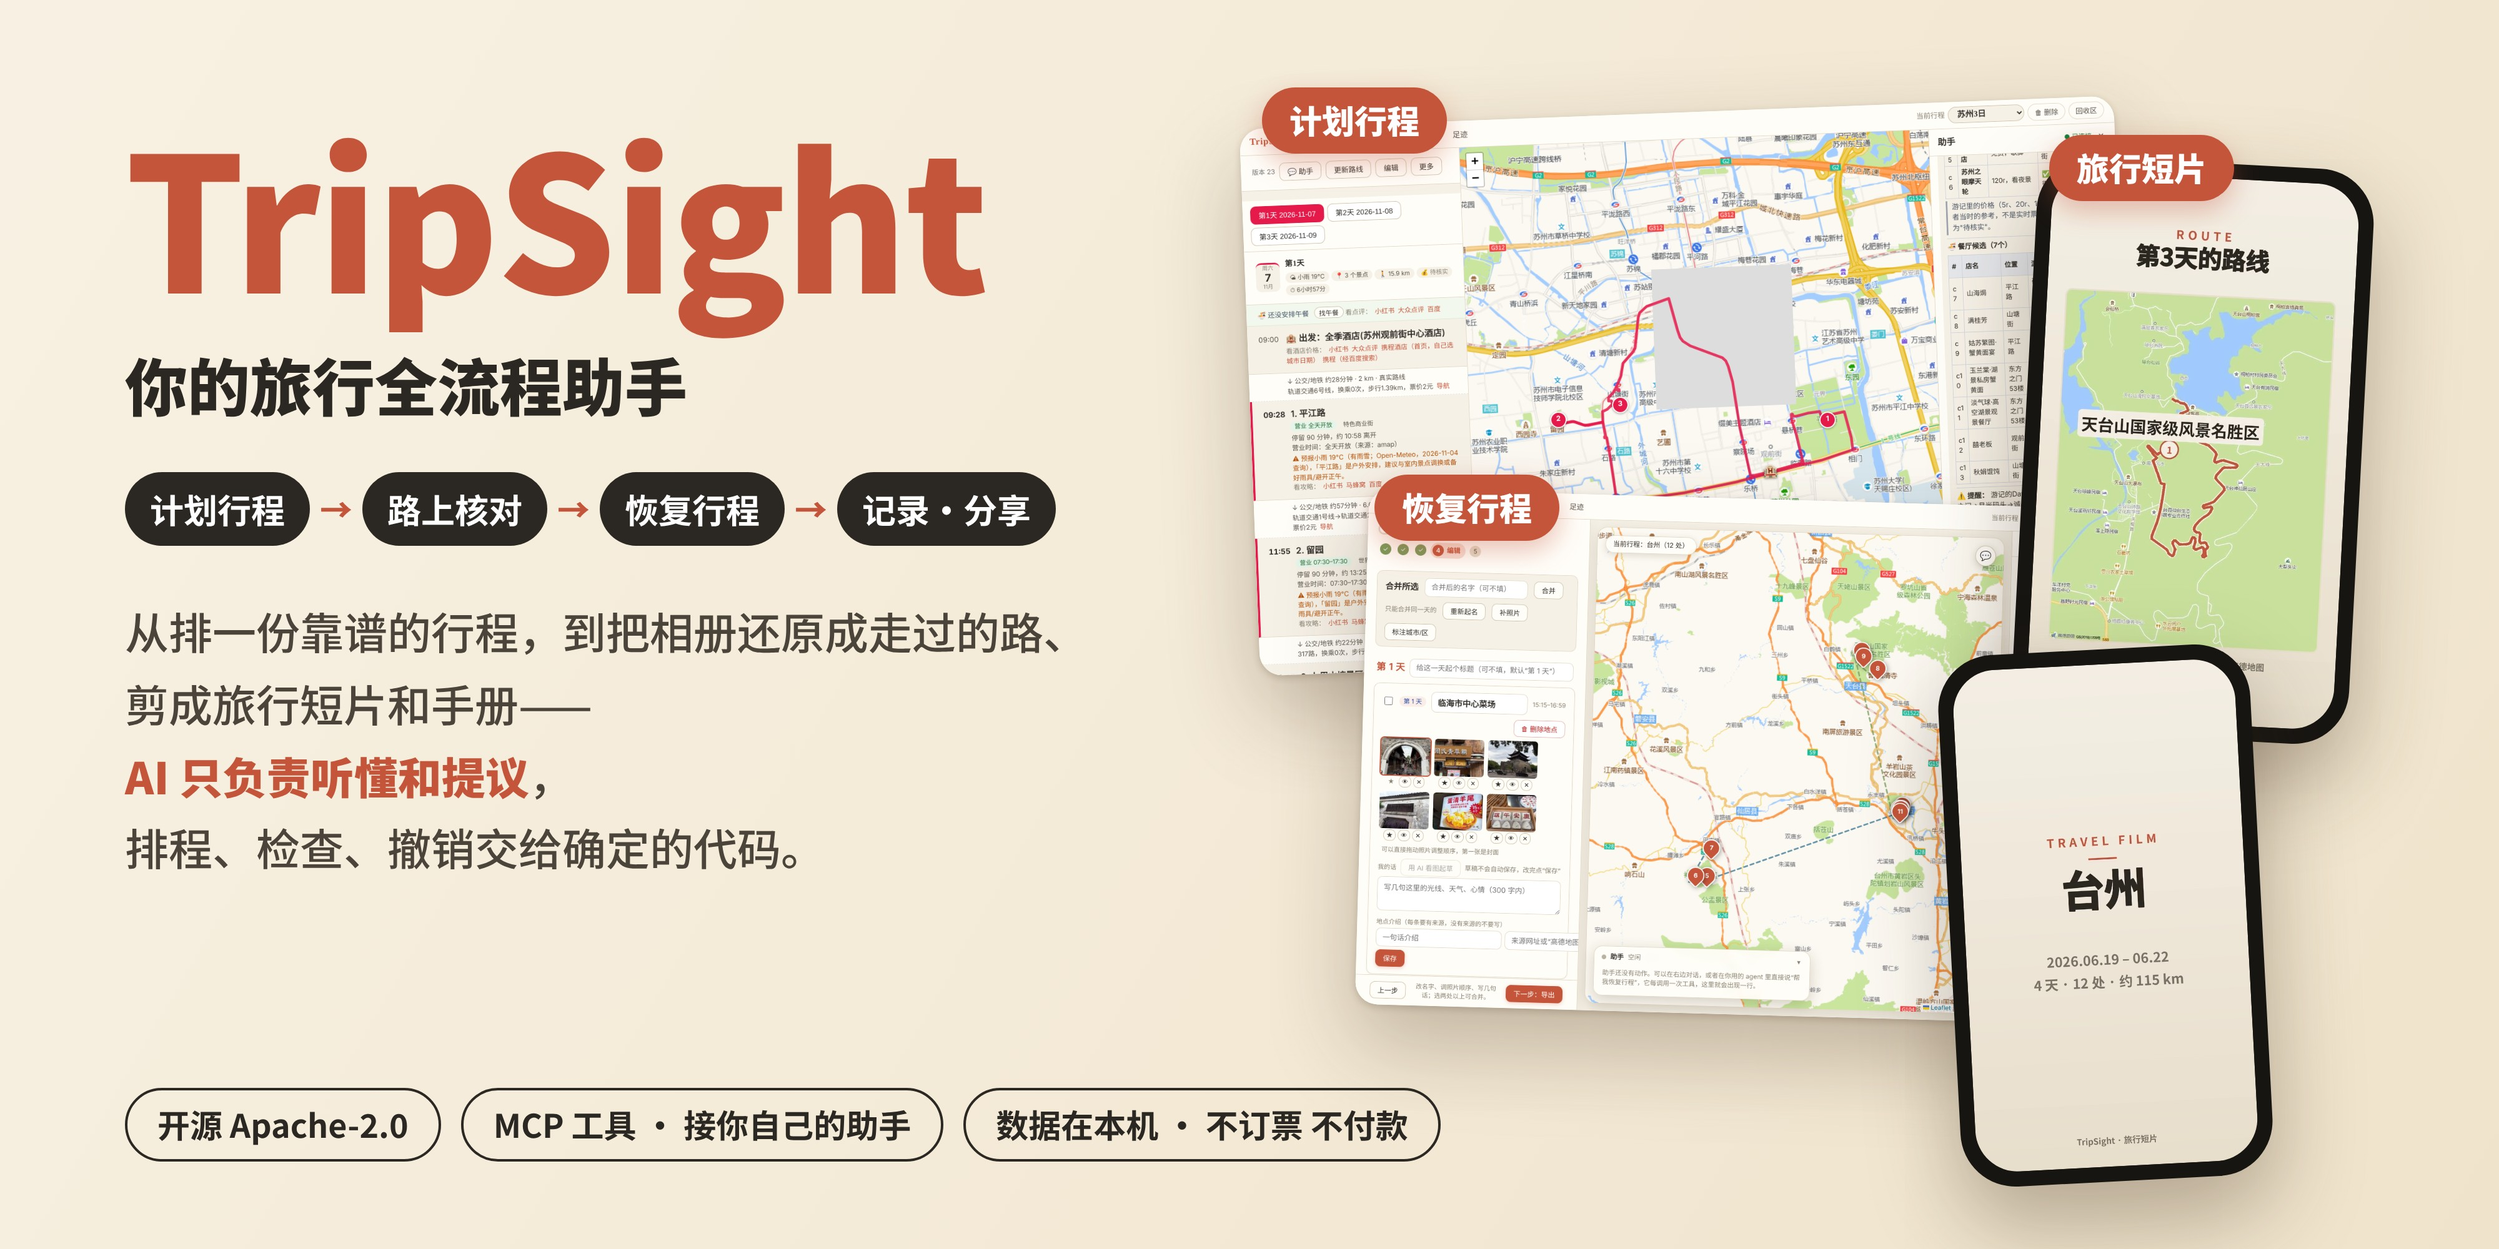
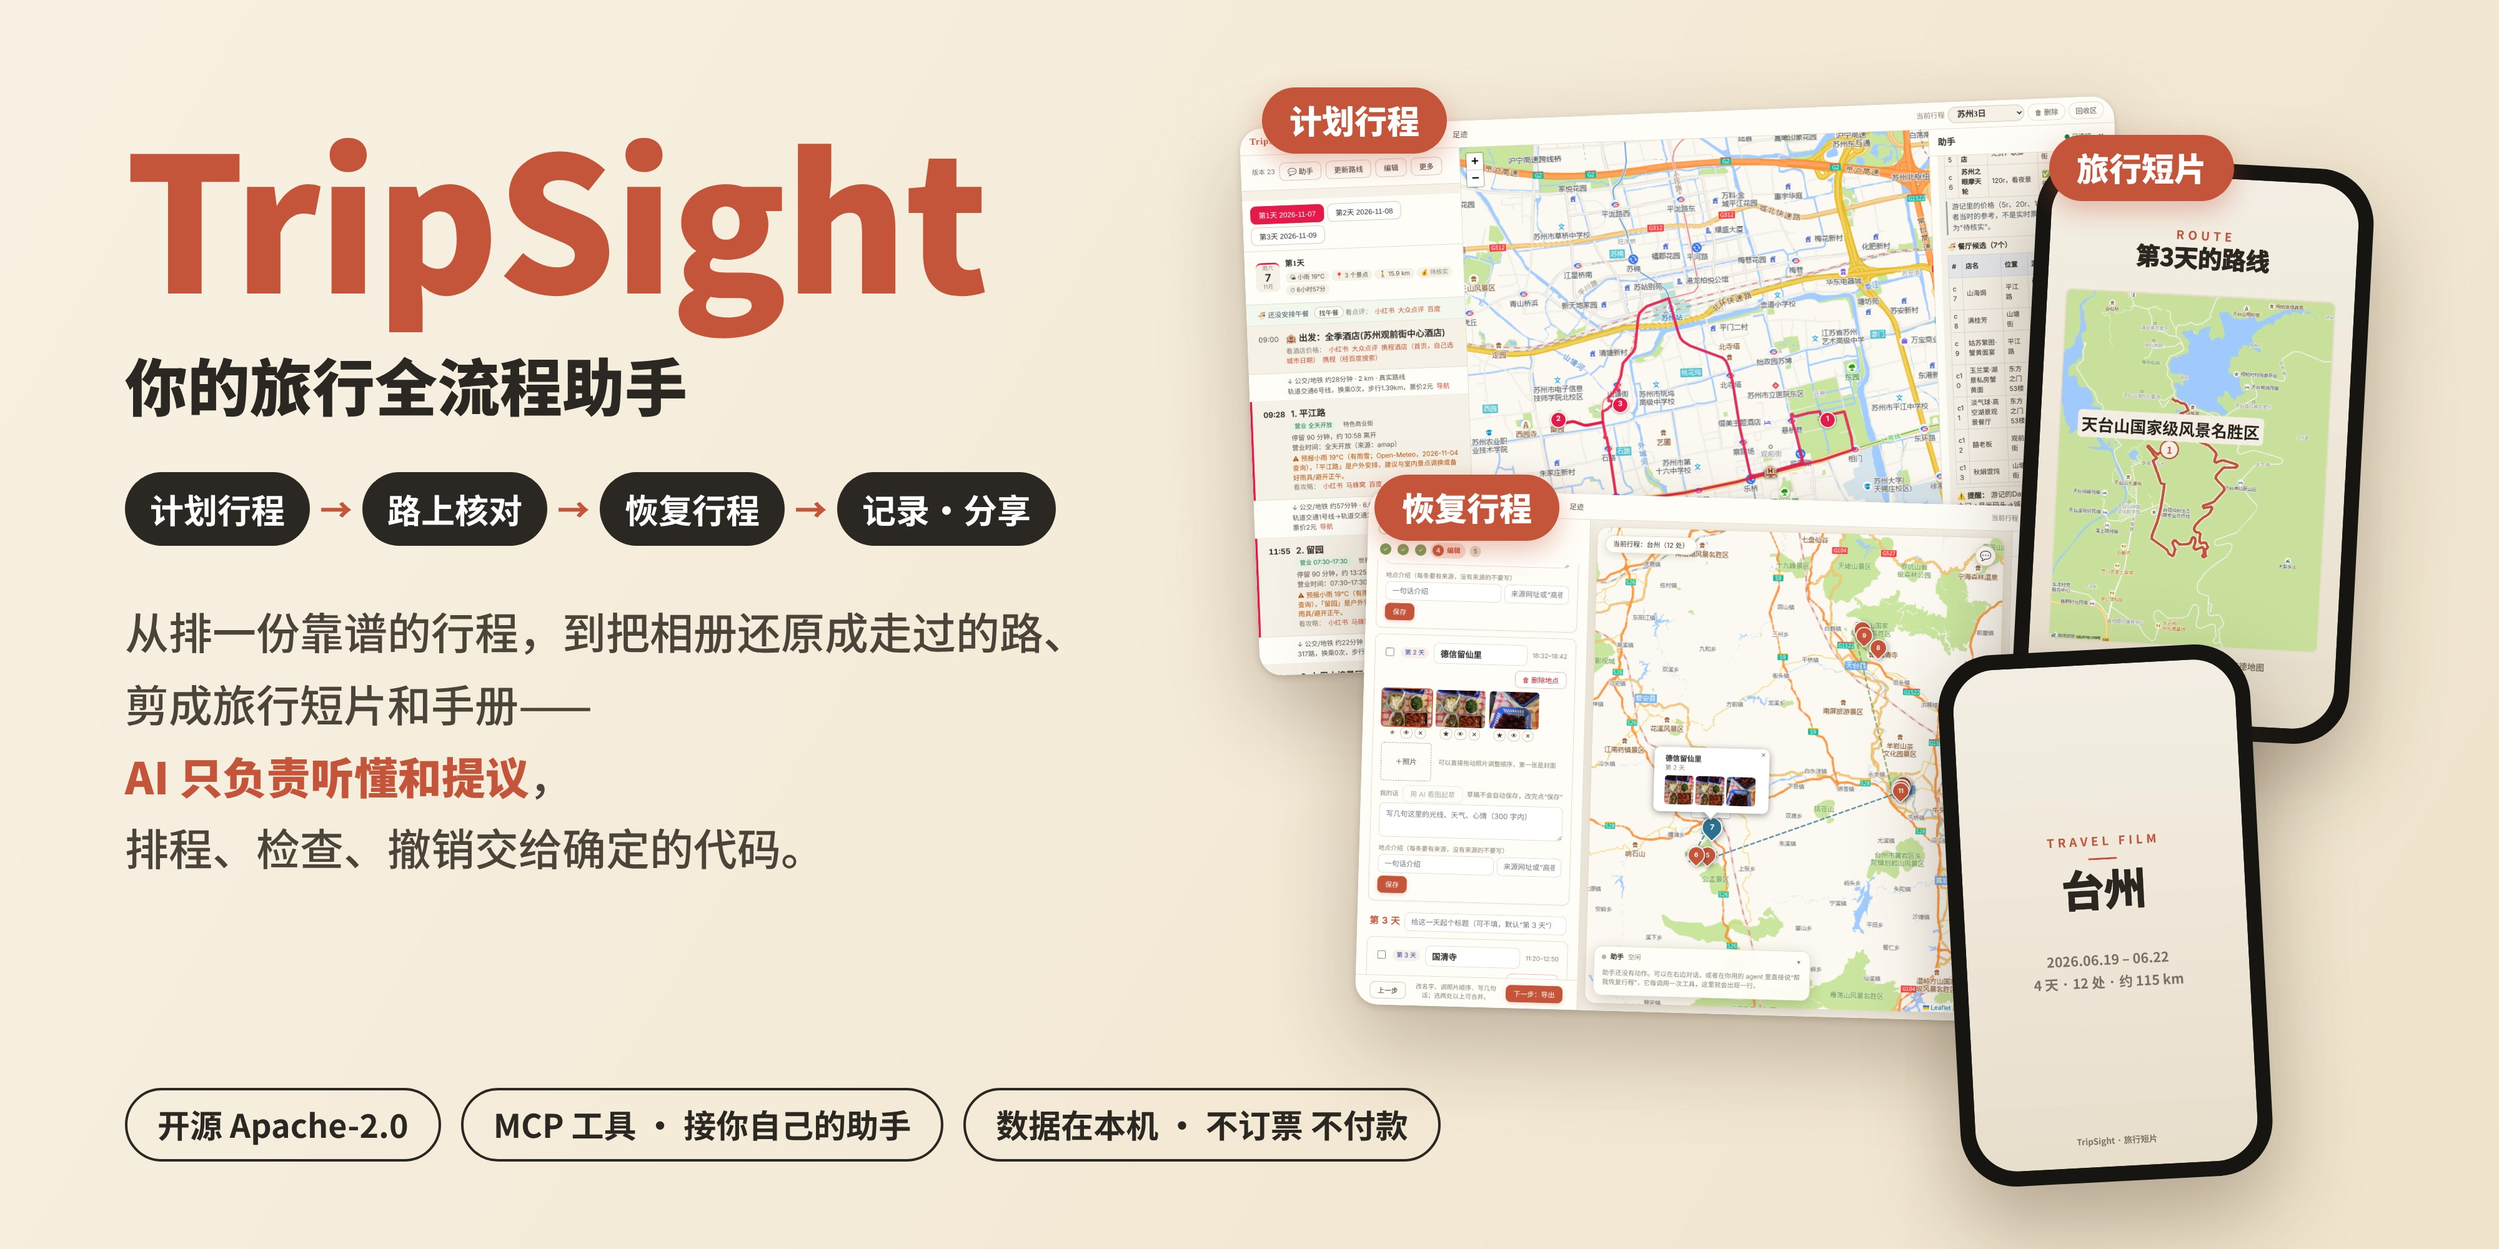
效果一览：两张大图并排、加分享格式与新 GIF；恢复行程图钉点开显示缩略图、地图收进边框；重拍截图和首图；README 补足迹地图与手册编辑

Changed region(s): [[0.5312, 0.403, 0.8125, 0.806], [0.6562, 0.217, 0.7188, 0.341]]

diff --git a/tripcore/webpage.py b/tripcore/webpage.py
@@ -994,13 +994,14 @@ function rmapDraw(pts, onclick) {
   const byDay = {}; pts.forEach(p => (byDay[p.day] = byDay[p.day] || []).push(p));
   Object.keys(byDay).forEach(d => { const c = DAYC[(+d - 1 + DAYC.length) % DAYC.length]; if (byDay[d].length > 1) L.polyline(byDay[d].map(p => p.pos), {color: c, weight: 3, opacity: .75, dashArray: '7 6'}).addTo(RLAY); });
   pts.forEach(p => { const m = L.marker(p.pos, {icon: rpin(p.n)}).addTo(RLAY); m._p = p; if (p.tip) m.bindTooltip(p.tip, {direction: 'top', offset: [10, -26]});
+    if (p.thumbs && p.thumbs.length) m.bindPopup('<div class="fpop"><b>' + esc(p.tip || '') + '</b><span>第 ' + p.day + ' 天</span><div class="th">' + p.thumbs.map(u => '<img src="' + u + '">').join('') + '</div></div>', {offset: [10, -22], autoPanPadding: [40, 40]});
     m.on('click', () => { rmapSelect(m); if (onclick) onclick(p); }); p._m = m; });
-  RMAP.fitBounds(L.latLngBounds(pts.map(p => p.pos)), {padding: [60, 60], maxZoom: 16});
+  RMAP.fitBounds(L.latLngBounds(pts.map(p => p.pos)), {paddingTopLeft: [80, 90], paddingBottomRight: [80, 170], maxZoom: 16});
 }
 function rmapSelect(m) { if (RSEL) RSEL.setIcon(rpin(RSEL._p.n)); RSEL = m; m.setIcon(rpin(m._p.n, true)); }
 function rmapFromHb() {
   if (!HB.data || HB.mode !== 'restore') return;
-  const pts = HB.data.stops.filter(x => x.restored && x.pos).map((x, i) => ({pos: x.pos, n: i + 1, day: x.day, id: x.id, tip: x.name}));
+  const pts = HB.data.stops.filter(x => x.restored && x.pos).map((x, i) => ({pos: x.pos, n: i + 1, day: x.day, id: x.id, tip: x.name, thumbs: (x.photos || []).filter(q => !q.hide && q.thumb).slice(0, 3).map(q => q.thumb)}));
   $('rmap_chip').className = ''; $('rmap_chip').textContent = $('rp_gate').classList.contains('on') ? '' : '当前行程：' + HB.data.name + '（' + pts.length + ' 处）'; $('rmap_chip').style.display = $('rmap_chip').textContent ? '' : 'none';
   rmapDraw(pts, p => { const el = $('hb_' + p.id); if (el && RS.step === 4) { el.scrollIntoView({behavior: 'smooth', block: 'center'}); el.classList.add('flash'); setTimeout(() => el.classList.remove('flash'), 1400); } });
 }

diff --git a/tests/test_photo_trip_tools.py b/tests/test_photo_trip_tools.py
@@ -690,3 +690,9 @@ def test_edit_handbook_texts_cards_and_preview_hooks(tmp_path, monkeypatch):
     s.edit_handbook("card_photos", "", day=1)
     assert "慢慢走" not in web.hb_style_preview({"style": "手账"})["page"] and not s._htext()["cards"]["1"].get("photos")
     assert "已清除" in web.hb_text({"kind": "afterword", "text": ""})["message"]
+
+
+def test_restore_map_pin_popup_has_thumbnails():
+    from tripcore.webpage import page_html
+    h = page_html()
+    assert "thumbs: (x.photos || [])" in h and "paddingBottomRight: [80, 170]" in h

diff --git a/README.md b/README.md
@@ -115,13 +115,16 @@ https://github.com/user-attachments/assets/441b25fe-3bd9-49a8-93a4-dde7a20816b5
 
 ## 🖼 效果一览
 
-**工作台：左侧行程、中间高德地图、右侧聊天助手。** 每天一个标签，天气、营业时间、真实路线和“助手做了什么”都在一个页面里。
+**左：计划行程工作台**（左侧行程、中间高德地图、右侧聊天助手，每天一个标签，天气、营业时间、真实路线和“助手做了什么”都在一个页面里）；**右：恢复行程编辑页**（相册 → 停留点 → 编辑 → 导出；地图上点一个图钉，弹出这个地点的照片缩略图，左侧同时跳到对应景点）。
 
-<a href="docs/images/workbench.png"><img src="docs/images/workbench.png" alt="计划行程工作台：苏州 3 天，真实路线、天气、聊天助手"></a>
+<p>
+<a href="docs/images/workbench.png"><img src="docs/images/workbench.png" width="49%" alt="计划行程工作台：苏州 3 天，真实路线、天气、聊天助手"></a>&ensp;
+<a href="docs/images/workbench-restore.png"><img src="docs/images/workbench-restore.png" width="49%" alt="恢复行程编辑页：台州的停留点、照片，点图钉看缩略图"></a>
+</p>
 
-**恢复行程：相册 → 停留点 → 编辑 → 导出。** 助手的每个动作都出现在左下角的“助手”卡片里。
+**计划行程可以带走的几种分享格式**（都用同一份行程在本机生成，不用登录；图中是真实导出的苏州 3 日，日历是用导出的 .ics 渲染的效果示意）：分享页（HTML，可转 PDF，有 8 种风格，酒店和花费默认不显示）、手机地图页（单个文件，手机浏览器直接打开）、日历文件（.ics，双击导入）；另外还有微信里能直接发的文字、GPX 轨迹和高德 App 专属地图。
 
-<a href="docs/images/workbench-restore.png"><img src="docs/images/workbench-restore.png" alt="恢复行程编辑页：台州的停留点、照片和助手"></a>
+<a href="docs/images/share-formats.jpg"><img src="docs/images/share-formats.jpg" alt="分享格式：分享页、手机地图页、日历文件" width="100%"></a>
 
 **还有这些小功能**：
 
@@ -134,8 +137,9 @@ https://github.com/user-attachments/assets/441b25fe-3bd9-49a8-93a4-dde7a20816b5
 <p>
 <img src="docs/images/feat-links.gif" width="23%" alt="点击跳转导航">&ensp;
 <img src="docs/images/feat-tools.gif" width="23%" alt="工具与能力">&ensp;
-<img src="docs/images/feat-export.gif" width="23%" alt="一键导出">
-
+<img src="docs/images/feat-export.gif" width="23%" alt="一键导出">&ensp;
+<img src="docs/images/feat-edit.gif" width="23%" alt="手册与卡片直接编辑">&ensp;
+<img src="docs/images/feat-footprint.gif" width="23%" alt="足迹地图：点图钉看照片缩略图">
 </p>
 
 <sub>图中为演示用的苏州 3 日行程（天气为真实预报）和作者旧手机的海南相册（只选风景）；底图 © 高德地图。以上截图为演示重放生成。</sub>
@@ -166,9 +170,9 @@ https://github.com/user-attachments/assets/441b25fe-3bd9-49a8-93a4-dde7a20816b5
 | **攻略转行程** | 粘贴游记/攻略 → 原文逐字核对 → 提交时自动查高德（已匹配/有歧义/没找到）并附跳转链接 → 你挑选后加入；识别“第N天/Day N”，可对照或照搬游记的分天；每个景点带可展开的游记原文；顺路路线（如 citywalk）可整条作为一项 |
 | **大交通与天气** | 记录到达/离开的航班或火车并推算首末日可玩时间；机票/火车票/酒店参考价（只读查询）；高德与 Open-Meteo 天气预报（工作台打开时，预报范围内的天自动后台查，每天顶部、分享页、手册、日历都带天气）|
 | **带走行程** | 想在路上用，就导出成下面这些（都在本机生成，不用登录）：<br>· 手机地图页：单个 HTML/PDF 文件，用手机浏览器打开，每天一张路线图和景点列表，不用联网也能看<br>· 高德 App 地图：把每天的路线补全成一个闭环，在高德 App 里按天打开导航<br>· 日历文件（.ics）：双击导入手机日历，带每天的时间和天气<br>· GPX 轨迹：导入运动类或其他地图类 App |
-| **旅行后：照片还原与手册** | 从照片文件夹或 Mac 照片 App 的相册还原走过的行程（按时间和位置聚成停留点，可合并、改名，可用 GPX/KML 轨迹给没定位的照片补位置）；可跨多年、也可按日期范围只还原一段；**自动模式**（工作台里一键开关）下助手连续完成导入、起名、标注城市、补照片，到预览停下等你点导出，期间页面左侧跟着助手的动作变化，起名等耗时步骤在后台跑，不会因工具超时中断；每个景点最多 6 张照片，可只引用不复制；生成网页手册、每天一张 3:4 卡片（照片大小可调）、**可点击的长页面 PDF**（路线“导航”链接手机上直接点）、Obsidian 笔记，多种版式，每天一张按当天范围放大的路线图，可导出分天播放的路线动画 GIF，路线图可加高德底图、按交通方式区分线型、用缩略图当图钉；照片内容的ai辅助文字描写 |
+| **旅行后：照片还原与手册** | 从照片文件夹或 Mac 照片 App 的相册还原走过的行程（按时间和位置聚成停留点，可合并、改名，可用 GPX/KML 轨迹给没定位的照片补位置）；可跨多年、也可按日期范围只还原一段；**自动模式**（工作台里一键开关）下助手连续完成导入、起名、标注城市、补照片，到预览停下等你点导出，期间页面左侧跟着助手的动作变化，起名等耗时步骤在后台跑，不会因工具超时中断；每个景点最多 6 张照片，可只引用不复制；生成网页手册、每天一张 3:4 卡片（照片大小可调）、**可点击的长页面 PDF**（路线“导航”链接手机上直接点）、Obsidian 笔记，多种版式，每天一张按当天范围放大的路线图，可导出分天播放的路线动画 GIF，路线图可加高德底图、按交通方式区分线型、用缩略图当图钉；照片内容的ai辅助文字描写；**手册和卡片可以直接改**：景点名、停留说明、每天一句话、封面副标题、后记，照片可删、换封面、调顺序，每张小红书卡片还能单独改标题、选照片、写一句自己的话、换风格（对应工具 `edit_handbook`） |
 | **花费** | 导入微信 / 支付宝账单（本机解析，内容不交给模型），含 iCloud 云盘导入，iPhone 快捷指令记 Apple Pay；按类别统计、可改类别并记住商户，可选放进手册后记 |
-| **视频与足迹** | 视频按拍摄时间和位置归到景点，按行程顺序剪成旅行短片，可同时生成剪映草稿；足迹汇总去过几趟、几个城市、大约多少公里，并画足迹地图 |
+| **视频与足迹** | 视频按拍摄时间和位置归到景点，按行程顺序剪成旅行短片，可同时生成剪映草稿；足迹汇总去过几趟、几个城市、大约多少公里，并画**可缩放的足迹地图**，图钉是当地的照片缩略图，点一下就能看照片 |
 | **长期记忆** | 记住你明说过的偏好（不爱走路、不吃辣、住宿预算），新行程自动套用；旅行后记录实际花费与评价，给出偏好建议 |
 | **工程** | 多行程管理、版本历史与撤销、`tripcore doctor` 自检、Apache-2.0、570+ 个自动化测试 |
 

diff --git a/README.en.md b/README.en.md
@@ -84,17 +84,16 @@ In TripSight the **chat assistant is the operator and the web workbench is its w
 
 ## 🖼 At a glance
 
-**The workbench: itinerary on the left, Amap map in the middle, chat assistant on the right.**
+**Left: the plan workbench** (itinerary on the left, Amap map in the middle, chat assistant on the right). **Right: the restore edit page** (album → stay points → edit → export; click a pin on the map to see that place's photo thumbnails, and the list on the left jumps to the stop).
 
-<a href="docs/images/workbench.png"><img src="docs/images/workbench.png" alt="Plan workbench: 3 days in Suzhou with real routes, weather and the chat assistant"></a>
+<p>
+<a href="docs/images/workbench.png"><img src="docs/images/workbench.png" width="49%" alt="Plan workbench: 3 days in Suzhou with real routes, weather and the chat assistant"></a>&ensp;
+<a href="docs/images/workbench-restore.png"><img src="docs/images/workbench-restore.png" width="49%" alt="Restore edit page for the Taizhou trip, click a pin for thumbnails"></a>
+</p>
 
-**Restore: album → stay points → edit → export.** Every action of the assistant appears in the "Assistant" card.
+**Share formats for a planned trip** (all generated locally from the same itinerary, no login; real exports of the Suzhou demo, the calendar is rendered from the exported .ics as an illustration): a share page (HTML, can become a PDF, 8 themes, hotels and costs hidden by default), a phone map page (a single file, opens in a phone browser) and a calendar file (.ics). There are also chat-ready text, a GPX track and a dedicated Amap App map.
 
-<a href="docs/images/workbench-restore.png"><img src="docs/images/workbench-restore.png" alt="Restore edit page for the Taizhou trip"></a>
-
-**There are many share formats; here is just a thin strip**: 8 share themes (journal, magazine, fresh, film, seaside…) switch with one click, plus a per-day route map and an optional route-animation GIF. Hotels and costs are hidden by default.
-
-<img src="docs/images/share-strip.jpg" alt="8 share themes (thumbnails)">
+<a href="docs/images/share-formats.jpg"><img src="docs/images/share-formats.jpg" alt="Share formats: share page, phone map page, calendar" width="100%"></a>
 
 **More small features** (older recordings, older UI, still valid):
 
@@ -107,8 +106,9 @@ In TripSight the **chat assistant is the operator and the web workbench is its w
 <p>
 <img src="docs/images/feat-links.gif" width="23%" alt="Click-through navigation">&ensp;
 <img src="docs/images/feat-tools.gif" width="23%" alt="Tools">&ensp;
-<img src="docs/images/feat-export.gif" width="23%" alt="One-click export">
-
+<img src="docs/images/feat-export.gif" width="23%" alt="One-click export">&ensp;
+<img src="docs/images/feat-edit.gif" width="23%" alt="Edit the handbook and cards in place">&ensp;
+<img src="docs/images/feat-footprint.gif" width="23%" alt="Footprint map: click a pin for photo thumbnails">
 </p>
 
 <sub>Screens use a demo Suzhou trip (real weather forecast) and the author's old-phone Hainan album (scenery only); basemap © Amap.</sub>
@@ -188,7 +188,7 @@ docker run -i --rm -v "$PWD/data:/data" -e AMAP_KEY tripsight   # MCP over stdio
 | Stage | Tools | Skills | Highlights |
 |---|---|---|---|
 | **Before · Plan** | 45 | `trip-planner` `trip-routes` `trip-hours-weather` `trip-food` `trip-sources` `flyai-search` | trip basics, stops and lodging, scheduling and checks, routes and transport, food, guide import (`schedule_days` `check_plan` `refine_routes` `submit_candidates`…) |
-| **After · Restore** | 17 | `trip-restore` | photo restore, place names, districts, day titles, handbook (`import_photo_trip` `autoname_stops` `tag_regions` `export_handbook`…) |
+| **After · Restore** | 17 | `trip-restore` | photo restore, place names, districts, day titles, handbook (`import_photo_trip` `autoname_stops` `tag_regions` `export_handbook` `edit_handbook`…) |
 | **Record & share** | 13 | `trip-export` | mobile map, WeChat text, Amap app map, calendar, GPX, share images, travel film |
 | **Long term** | 15 | `trip-review` | footprints, bills and spending, review, travelogue (12); preferences (3) |
 
